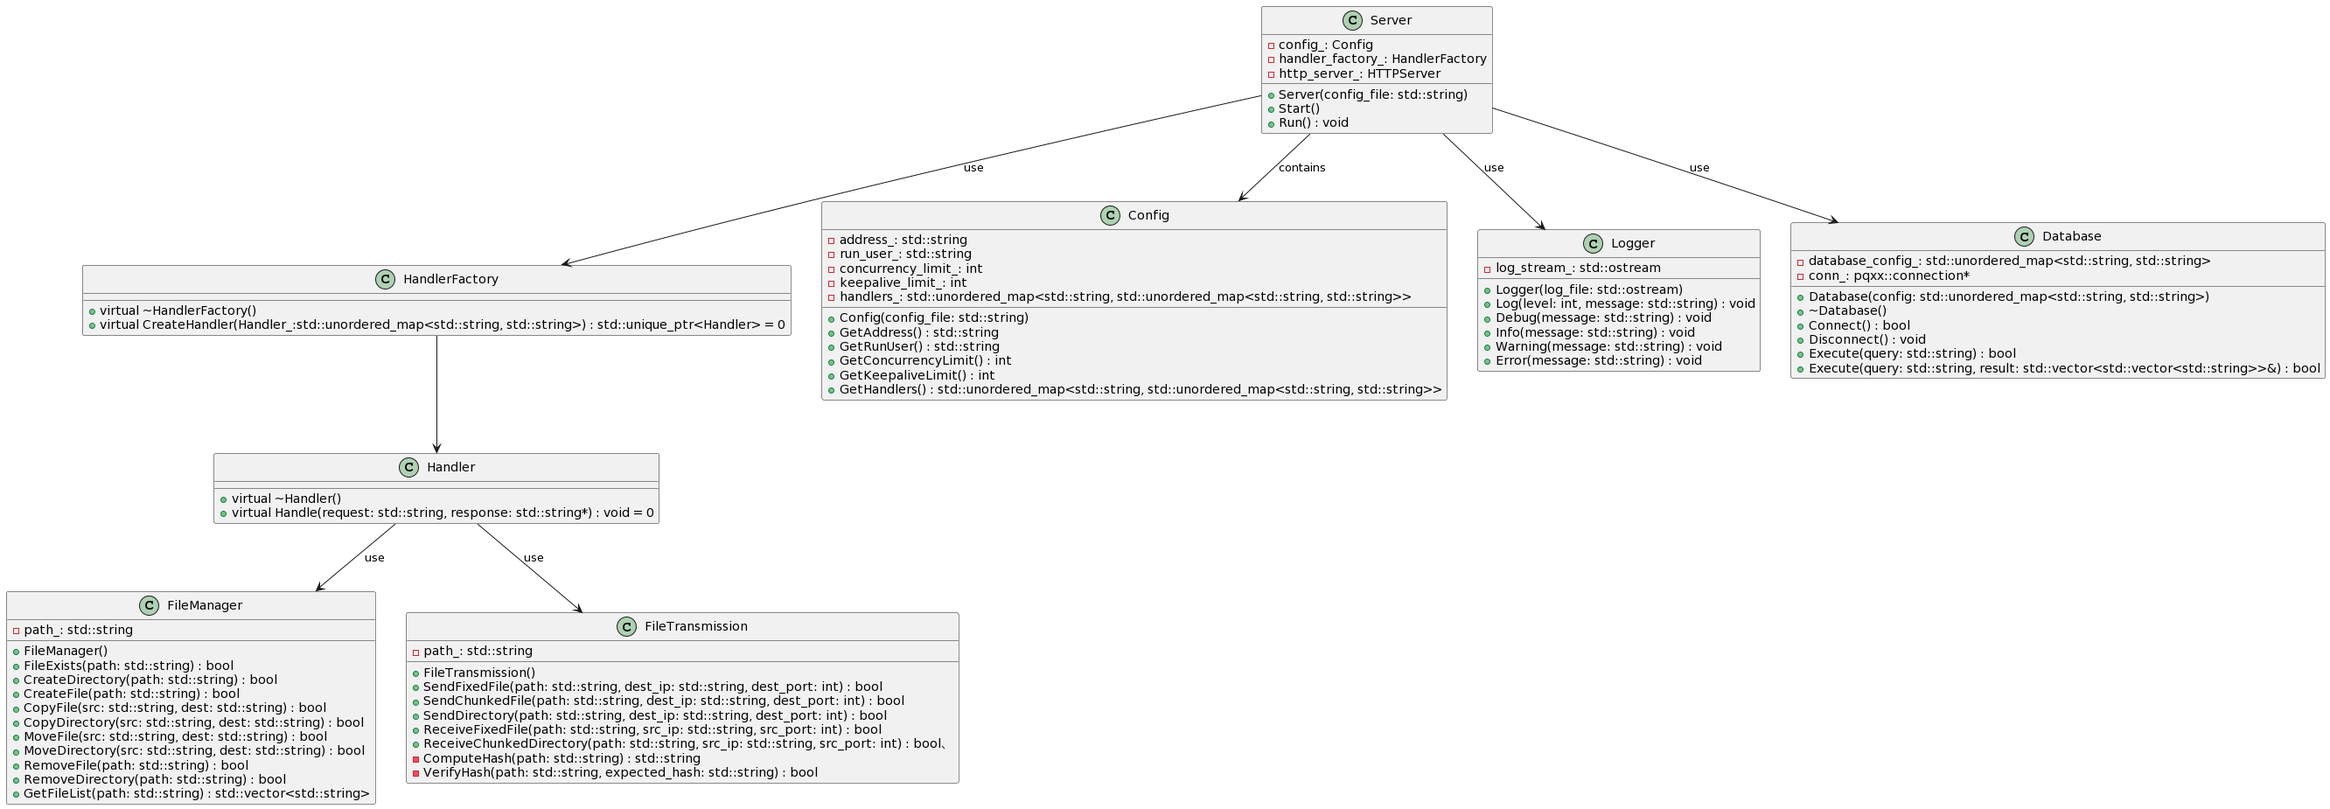
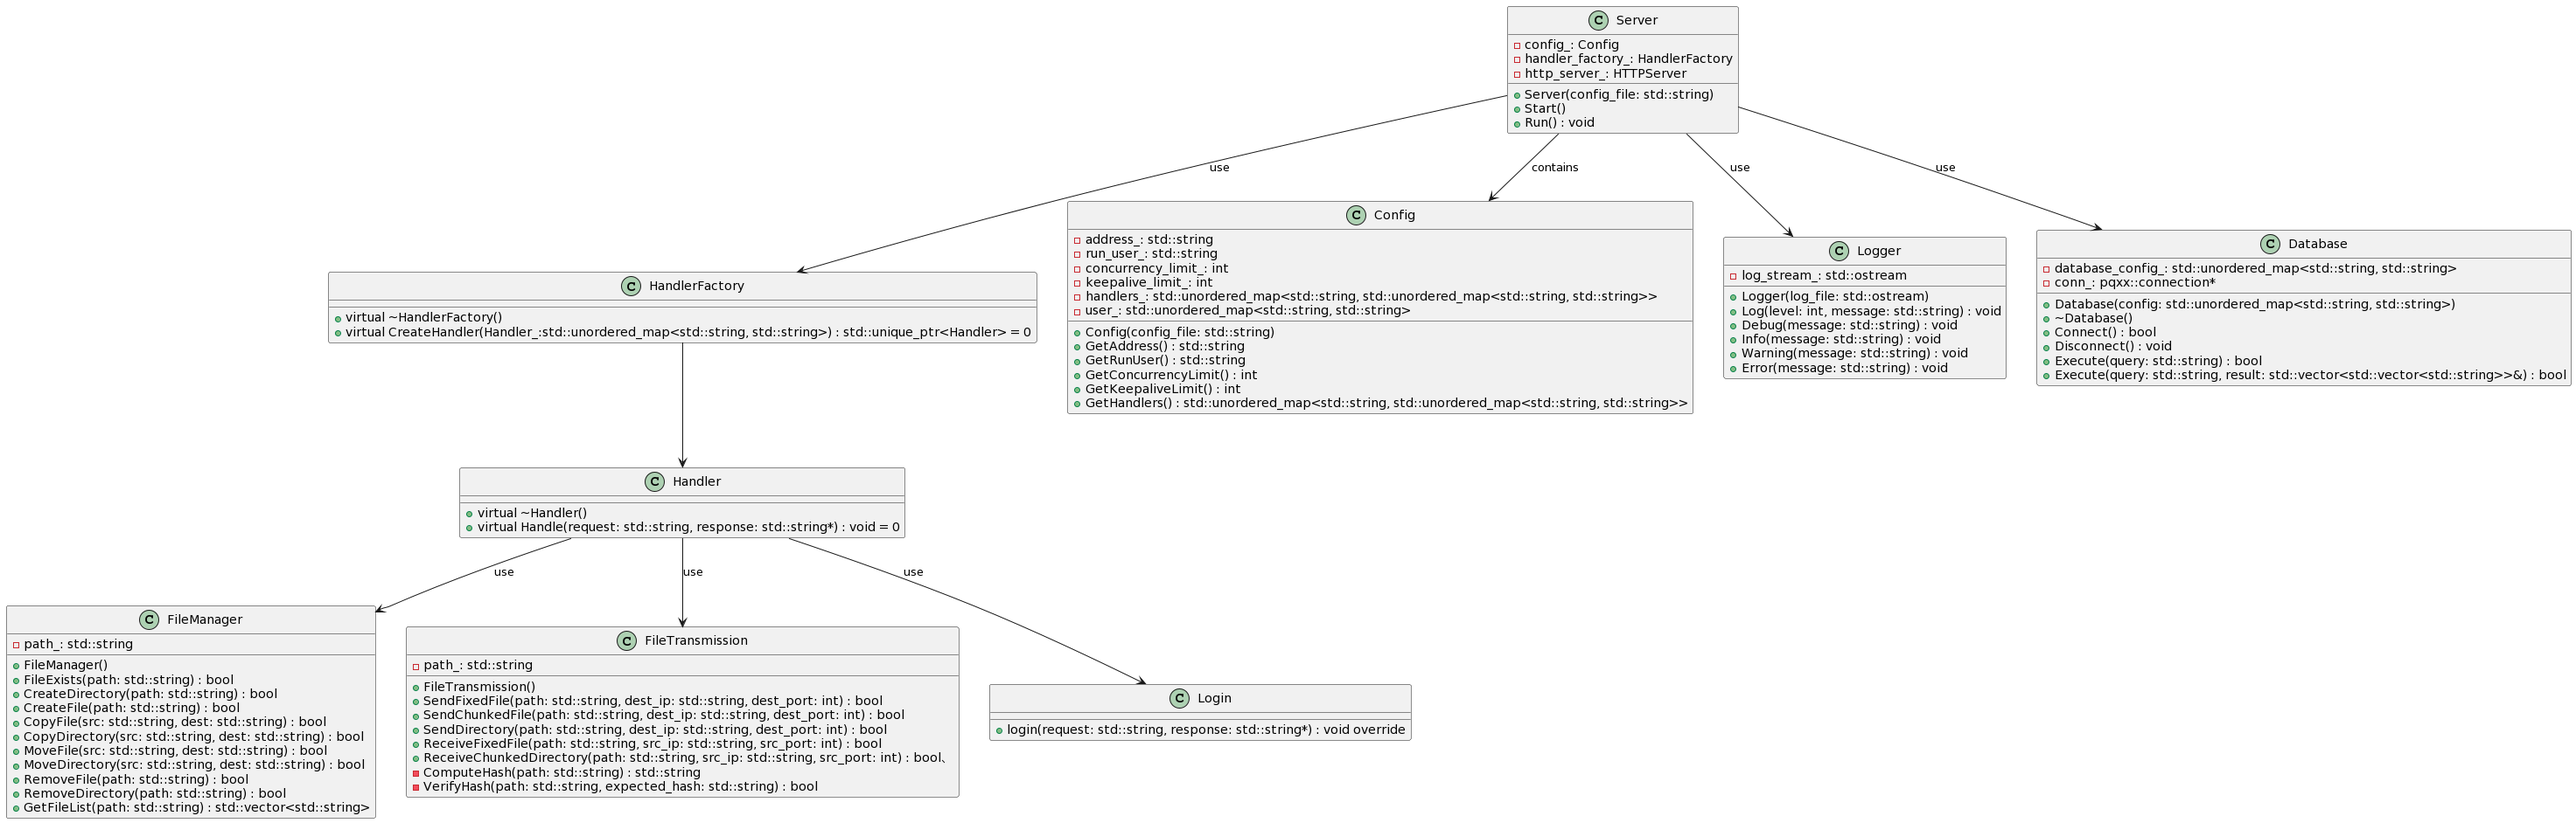
添加登陆验证

diff --git a/doc/design/概要设计.md b/doc/design/概要设计.md
@@ -302,6 +302,7 @@ Run--> [*] :关闭
 #### 5.3.2json配置概要说明
 | 配置项           | 说明                                                         |
 | ---------------- | ------------------------------------------------------------ |
+| `user`  | 包含多个账号和密码信息，用于验证用户登录请求。|
 | `address`        | 监听地址，指定服务器应该监听哪个IP地址和端口号。如果留空，则使用默认地址（0.0.0.0:80）。 |
 | `runUser`        | 服务器运行的用户。如果运行用户不为root，则使用当前用户运行服务器。否则使用配置指定的用户身份运行服务器。 |
 | `concurrencyLimit` | 并发限制，指定服务器可以同时处理多少个请求。如果超过限制，则新的请求需要等待之前的请求处理完毕后才能被处理。 |
@@ -311,7 +312,7 @@ Run--> [*] :关闭
 | `handler`        | 处理器名称，用于标识不同的处理器。                          |
 | `dir`            | 文件目录，用于指定处理器应该访问的文件目录。                 |
 
-SON配置文件包含了一些服务器的配置信息和处理器信息，可以用于配置一个HTTP服务器。根据这些配置信息，服务器可以正确地处理HTTP请求，并将请求映射到正确的处理器上。
+JSON配置文件包含了一些服务器的配置信息和处理器信息，可以用于配置一个HTTP服务器。根据这些配置信息，服务器可以正确地处理HTTP请求，并将请求映射到正确的处理器上。
 
 #### 5.3.3服务器类图
 
@@ -344,6 +345,11 @@ class FileTransmission {
   -path_: std::string
 }
 
+class Login {
+  +login(request: std::string, response: std::string*) : void override
+}
+
+
 class Handler {
   +virtual ~Handler()
   +virtual Handle(request: std::string, response: std::string*) : void = 0
@@ -366,6 +372,7 @@ class Config {
   -concurrency_limit_: int
   -keepalive_limit_: int
   -handlers_: std::unordered_map<std::string, std::unordered_map<std::string, std::string>>
+  -user_: std::unordered_map<std::string, std::string>
 }
 
 class Logger {
@@ -407,6 +414,7 @@ Server --> Database :use
 HandlerFactory --> Handler 
 Handler --> FileManager :use
 Handler --> FileTransmission :use
+Handler --> Login:use
 @enduml
 
 ```
